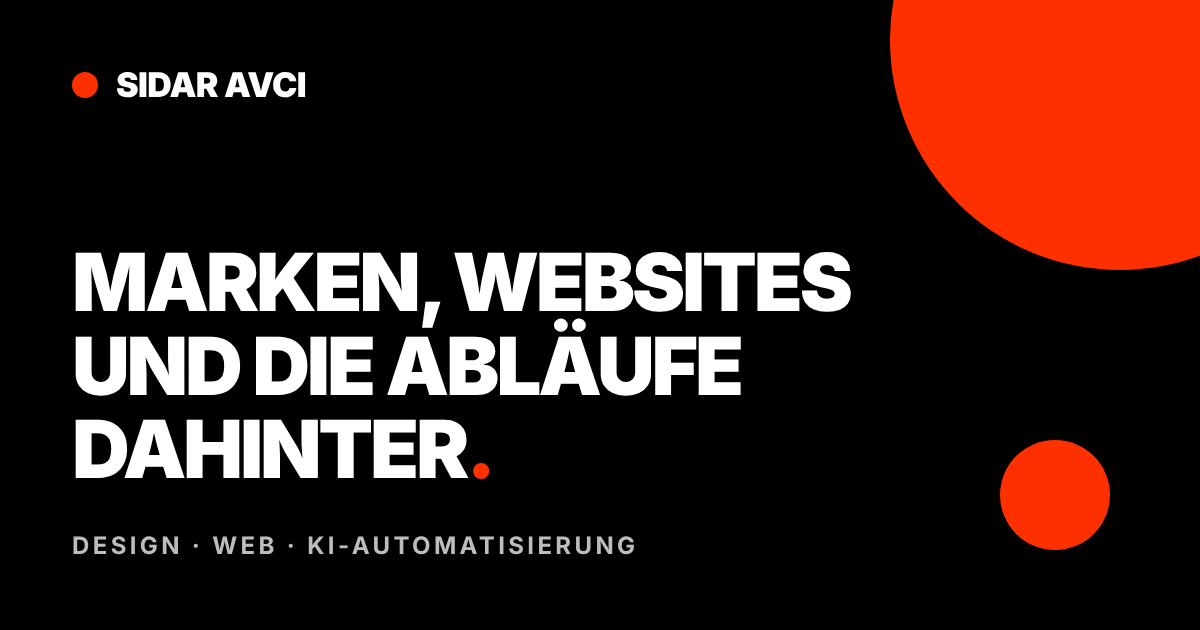
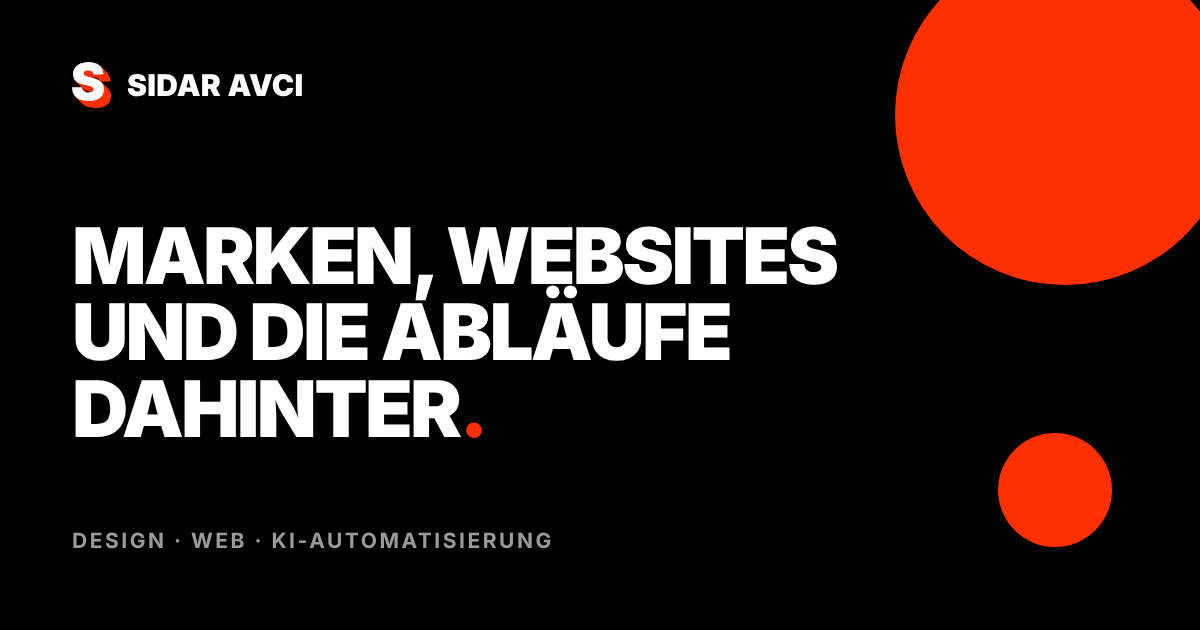
Marke: das gesetzte S ersetzt den orangen Punkt
Neues Zeichen im Header aller Seiten: schweres S mit Flanke in #ff3000,
als reiner Vektorpfad, Schrift ist in Kurven umgewandelt.

- assets/img/logo-s.svg (2,6 KB) neu, .brand i durch .brand__mark ersetzt
- Favicon, 96-px-Icon, Apple-Touch-Icon und .ico neu aus dem Zeichen gebaut
- og.png mit dem Zeichen statt dem Punkt, Layout unverändert
- Impressum und Datenschutz haben eigene Header-Regeln, dort nachgezogen
- mv-*.html bleiben unangetastet (alte Entwurfsvarianten)

Claude-Session: https://claude.ai/code/session_01V3LMbgT69FmyoNWf7fFtyk

diff --git a/referenzen/index.html b/referenzen/index.html
@@ -161,8 +161,8 @@ body::after{ /* swiss-noise */
 .site-header .frame{border-bottom:var(--b) solid var(--border);position:relative}
 .hdr{display:flex;align-items:center;justify-content:space-between;gap:1rem;height:4.25rem}
 .brand{font-weight:900;text-transform:uppercase;letter-spacing:-.02em;font-size:1.125rem;text-decoration:none;display:flex;align-items:center;gap:.6rem;min-height:44px}
-.brand i{width:.85rem;height:.85rem;background:var(--accent);border-radius:50%;display:inline-block;transition:transform .2s var(--ease)}
-.brand:hover i{transform:scale(1.25)}
+.brand__mark{height:2.125rem;width:auto;display:block;flex:none;transition:transform .2s var(--ease);transform-origin:left center}
+.brand:hover .brand__mark{transform:scale(1.06)}
 .nav ul{display:flex}
 .nav a{white-space:nowrap;display:flex;align-items:center;justify-content:center;height:100%;min-height:44px;text-decoration:none;
   font-size:.8125rem;font-weight:700;letter-spacing:.12em;text-transform:uppercase}
@@ -958,7 +958,7 @@ html{scroll-padding-top:calc(var(--hdr-h,72px) + var(--idx-h,56px) + 8px)}
 <header class="site-header" id="hdr">
   <div class="frame">
     <div class="hdr wrap">
-      <a class="brand" href="/" aria-label="Sidar Avci, zur Startseite"><i aria-hidden="true"></i>Sidar Avci</a>
+      <a class="brand" href="/" aria-label="Sidar Avci, zur Startseite"><img class="brand__mark" src="/assets/img/logo-s.svg" width="29" height="34" alt="" decoding="async">Sidar Avci</a>
       <nav class="nav" aria-label="Hauptnavigation">
         <ul>
           <li><a href="/#arbeiten"><span class="slide"><span><span>Arbeiten</span><span aria-hidden="true">Arbeiten</span></span></span></a></li><li><a href="/referenzen/" aria-current="true"><span class="slide"><span><span>Referenzen</span><span aria-hidden="true">Referenzen</span></span></span></a></li>

diff --git a/arbeiten/av-vertrags-bot/index.html b/arbeiten/av-vertrags-bot/index.html
@@ -161,8 +161,8 @@ body::after{ /* swiss-noise */
 .site-header .frame{border-bottom:var(--b) solid var(--border);position:relative}
 .hdr{display:flex;align-items:center;justify-content:space-between;gap:1rem;height:4.25rem}
 .brand{font-weight:900;text-transform:uppercase;letter-spacing:-.02em;font-size:1.125rem;text-decoration:none;display:flex;align-items:center;gap:.6rem;min-height:44px}
-.brand i{width:.85rem;height:.85rem;background:var(--accent);border-radius:50%;display:inline-block;transition:transform .2s var(--ease)}
-.brand:hover i{transform:scale(1.25)}
+.brand__mark{height:2.125rem;width:auto;display:block;flex:none;transition:transform .2s var(--ease);transform-origin:left center}
+.brand:hover .brand__mark{transform:scale(1.06)}
 .nav ul{display:flex}
 .nav a{white-space:nowrap;display:flex;align-items:center;justify-content:center;height:100%;min-height:44px;text-decoration:none;
   font-size:.8125rem;font-weight:700;letter-spacing:.12em;text-transform:uppercase}
@@ -1121,7 +1121,7 @@ ol.fx{list-style:none;margin:0;padding:0}
 <header class="site-header" id="hdr">
   <div class="frame">
     <div class="hdr wrap">
-      <a class="brand" href="/" aria-label="Sidar Avci, zur Startseite"><i aria-hidden="true"></i>Sidar Avci</a>
+      <a class="brand" href="/" aria-label="Sidar Avci, zur Startseite"><img class="brand__mark" src="/assets/img/logo-s.svg" width="29" height="34" alt="" decoding="async">Sidar Avci</a>
       <nav class="nav" aria-label="Hauptnavigation">
         <ul>
           <li><a href="/#arbeiten" aria-current="true"><span class="slide"><span><span>Arbeiten</span><span aria-hidden="true">Arbeiten</span></span></span></a></li><li><a href="/referenzen/"><span class="slide"><span><span>Referenzen</span><span aria-hidden="true">Referenzen</span></span></span></a></li>

diff --git a/arbeiten/ems-loccum/index.html b/arbeiten/ems-loccum/index.html
@@ -161,8 +161,8 @@ body::after{ /* swiss-noise */
 .site-header .frame{border-bottom:var(--b) solid var(--border);position:relative}
 .hdr{display:flex;align-items:center;justify-content:space-between;gap:1rem;height:4.25rem}
 .brand{font-weight:900;text-transform:uppercase;letter-spacing:-.02em;font-size:1.125rem;text-decoration:none;display:flex;align-items:center;gap:.6rem;min-height:44px}
-.brand i{width:.85rem;height:.85rem;background:var(--accent);border-radius:50%;display:inline-block;transition:transform .2s var(--ease)}
-.brand:hover i{transform:scale(1.25)}
+.brand__mark{height:2.125rem;width:auto;display:block;flex:none;transition:transform .2s var(--ease);transform-origin:left center}
+.brand:hover .brand__mark{transform:scale(1.06)}
 .nav ul{display:flex}
 .nav a{white-space:nowrap;display:flex;align-items:center;justify-content:center;height:100%;min-height:44px;text-decoration:none;
   font-size:.8125rem;font-weight:700;letter-spacing:.12em;text-transform:uppercase}
@@ -1152,7 +1152,7 @@ ol.fx{list-style:none;margin:0;padding:0}
 <header class="site-header" id="hdr">
   <div class="frame">
     <div class="hdr wrap">
-      <a class="brand" href="/" aria-label="Sidar Avci, zur Startseite"><i aria-hidden="true"></i>Sidar Avci</a>
+      <a class="brand" href="/" aria-label="Sidar Avci, zur Startseite"><img class="brand__mark" src="/assets/img/logo-s.svg" width="29" height="34" alt="" decoding="async">Sidar Avci</a>
       <nav class="nav" aria-label="Hauptnavigation">
         <ul>
           <li><a href="/#arbeiten" aria-current="true"><span class="slide"><span><span>Arbeiten</span><span aria-hidden="true">Arbeiten</span></span></span></a></li><li><a href="/referenzen/"><span class="slide"><span><span>Referenzen</span><span aria-hidden="true">Referenzen</span></span></span></a></li>

diff --git a/arbeiten/nomo/index.html b/arbeiten/nomo/index.html
@@ -161,8 +161,8 @@ body::after{ /* swiss-noise */
 .site-header .frame{border-bottom:var(--b) solid var(--border);position:relative}
 .hdr{display:flex;align-items:center;justify-content:space-between;gap:1rem;height:4.25rem}
 .brand{font-weight:900;text-transform:uppercase;letter-spacing:-.02em;font-size:1.125rem;text-decoration:none;display:flex;align-items:center;gap:.6rem;min-height:44px}
-.brand i{width:.85rem;height:.85rem;background:var(--accent);border-radius:50%;display:inline-block;transition:transform .2s var(--ease)}
-.brand:hover i{transform:scale(1.25)}
+.brand__mark{height:2.125rem;width:auto;display:block;flex:none;transition:transform .2s var(--ease);transform-origin:left center}
+.brand:hover .brand__mark{transform:scale(1.06)}
 .nav ul{display:flex}
 .nav a{white-space:nowrap;display:flex;align-items:center;justify-content:center;height:100%;min-height:44px;text-decoration:none;
   font-size:.8125rem;font-weight:700;letter-spacing:.12em;text-transform:uppercase}
@@ -1164,7 +1164,7 @@ ol.fx{list-style:none;margin:0;padding:0}
 <header class="site-header" id="hdr">
   <div class="frame">
     <div class="hdr wrap">
-      <a class="brand" href="/" aria-label="Sidar Avci, zur Startseite"><i aria-hidden="true"></i>Sidar Avci</a>
+      <a class="brand" href="/" aria-label="Sidar Avci, zur Startseite"><img class="brand__mark" src="/assets/img/logo-s.svg" width="29" height="34" alt="" decoding="async">Sidar Avci</a>
       <nav class="nav" aria-label="Hauptnavigation">
         <ul>
           <li><a href="/#arbeiten" aria-current="true"><span class="slide"><span><span>Arbeiten</span><span aria-hidden="true">Arbeiten</span></span></span></a></li><li><a href="/referenzen/"><span class="slide"><span><span>Referenzen</span><span aria-hidden="true">Referenzen</span></span></span></a></li>

diff --git a/arbeiten/schillerpraxis/index.html b/arbeiten/schillerpraxis/index.html
@@ -161,8 +161,8 @@ body::after{ /* swiss-noise */
 .site-header .frame{border-bottom:var(--b) solid var(--border);position:relative}
 .hdr{display:flex;align-items:center;justify-content:space-between;gap:1rem;height:4.25rem}
 .brand{font-weight:900;text-transform:uppercase;letter-spacing:-.02em;font-size:1.125rem;text-decoration:none;display:flex;align-items:center;gap:.6rem;min-height:44px}
-.brand i{width:.85rem;height:.85rem;background:var(--accent);border-radius:50%;display:inline-block;transition:transform .2s var(--ease)}
-.brand:hover i{transform:scale(1.25)}
+.brand__mark{height:2.125rem;width:auto;display:block;flex:none;transition:transform .2s var(--ease);transform-origin:left center}
+.brand:hover .brand__mark{transform:scale(1.06)}
 .nav ul{display:flex}
 .nav a{white-space:nowrap;display:flex;align-items:center;justify-content:center;height:100%;min-height:44px;text-decoration:none;
   font-size:.8125rem;font-weight:700;letter-spacing:.12em;text-transform:uppercase}
@@ -1168,7 +1168,7 @@ ol.fx{list-style:none;margin:0;padding:0}
 <header class="site-header" id="hdr">
   <div class="frame">
     <div class="hdr wrap">
-      <a class="brand" href="/" aria-label="Sidar Avci, zur Startseite"><i aria-hidden="true"></i>Sidar Avci</a>
+      <a class="brand" href="/" aria-label="Sidar Avci, zur Startseite"><img class="brand__mark" src="/assets/img/logo-s.svg" width="29" height="34" alt="" decoding="async">Sidar Avci</a>
       <nav class="nav" aria-label="Hauptnavigation">
         <ul>
           <li><a href="/#arbeiten" aria-current="true"><span class="slide"><span><span>Arbeiten</span><span aria-hidden="true">Arbeiten</span></span></span></a></li><li><a href="/referenzen/"><span class="slide"><span><span>Referenzen</span><span aria-hidden="true">Referenzen</span></span></span></a></li>

diff --git a/arbeiten/stroeer/index.html b/arbeiten/stroeer/index.html
@@ -161,8 +161,8 @@ body::after{ /* swiss-noise */
 .site-header .frame{border-bottom:var(--b) solid var(--border);position:relative}
 .hdr{display:flex;align-items:center;justify-content:space-between;gap:1rem;height:4.25rem}
 .brand{font-weight:900;text-transform:uppercase;letter-spacing:-.02em;font-size:1.125rem;text-decoration:none;display:flex;align-items:center;gap:.6rem;min-height:44px}
-.brand i{width:.85rem;height:.85rem;background:var(--accent);border-radius:50%;display:inline-block;transition:transform .2s var(--ease)}
-.brand:hover i{transform:scale(1.25)}
+.brand__mark{height:2.125rem;width:auto;display:block;flex:none;transition:transform .2s var(--ease);transform-origin:left center}
+.brand:hover .brand__mark{transform:scale(1.06)}
 .nav ul{display:flex}
 .nav a{white-space:nowrap;display:flex;align-items:center;justify-content:center;height:100%;min-height:44px;text-decoration:none;
   font-size:.8125rem;font-weight:700;letter-spacing:.12em;text-transform:uppercase}
@@ -1134,7 +1134,7 @@ ol.fx{list-style:none;margin:0;padding:0}
 <header class="site-header" id="hdr">
   <div class="frame">
     <div class="hdr wrap">
-      <a class="brand" href="/" aria-label="Sidar Avci, zur Startseite"><i aria-hidden="true"></i>Sidar Avci</a>
+      <a class="brand" href="/" aria-label="Sidar Avci, zur Startseite"><img class="brand__mark" src="/assets/img/logo-s.svg" width="29" height="34" alt="" decoding="async">Sidar Avci</a>
       <nav class="nav" aria-label="Hauptnavigation">
         <ul>
           <li><a href="/#arbeiten" aria-current="true"><span class="slide"><span><span>Arbeiten</span><span aria-hidden="true">Arbeiten</span></span></span></a></li><li><a href="/referenzen/"><span class="slide"><span><span>Referenzen</span><span aria-hidden="true">Referenzen</span></span></span></a></li>

diff --git a/index.html b/index.html
@@ -169,8 +169,8 @@ body::after{ /* swiss-noise */
 .site-header .frame{border-bottom:var(--b) solid var(--border);position:relative}
 .hdr{display:flex;align-items:center;justify-content:space-between;gap:1rem;height:4.25rem}
 .brand{font-weight:900;text-transform:uppercase;letter-spacing:-.02em;font-size:1.125rem;text-decoration:none;display:flex;align-items:center;gap:.6rem;min-height:44px}
-.brand i{width:.85rem;height:.85rem;background:var(--accent);border-radius:50%;display:inline-block;transition:transform .2s var(--ease)}
-.brand:hover i{transform:scale(1.25)}
+.brand__mark{height:2.125rem;width:auto;display:block;flex:none;transition:transform .2s var(--ease);transform-origin:left center}
+.brand:hover .brand__mark{transform:scale(1.06)}
 .nav ul{display:flex}
 .nav a{white-space:nowrap;display:flex;align-items:center;justify-content:center;height:100%;min-height:44px;text-decoration:none;
   font-size:.8125rem;font-weight:700;letter-spacing:.12em;text-transform:uppercase}
@@ -1090,7 +1090,7 @@ body::after{ /* swiss-noise */
 <header class="site-header" id="hdr">
   <div class="frame">
     <div class="hdr wrap">
-      <a class="brand" href="#top" aria-label="Sidar Avci, zur Startseite"><i aria-hidden="true"></i>Sidar Avci</a>
+      <a class="brand" href="#top" aria-label="Sidar Avci, zur Startseite"><img class="brand__mark" src="/assets/img/logo-s.svg" width="29" height="34" alt="" decoding="async">Sidar Avci</a>
       <nav class="nav" aria-label="Hauptnavigation">
         <ul>
           <li><a href="#arbeiten"><span class="slide"><span><span>Arbeiten</span><span aria-hidden="true">Arbeiten</span></span></span></a></li>

diff --git a/datenschutz/index.html b/datenschutz/index.html
@@ -27,7 +27,7 @@ body{margin:0;font-family:"Inter",system-ui,sans-serif;color:var(--fg);backgroun
 header{background:var(--fg);padding:1.35rem var(--pad)}
 header a{font-weight:900;text-transform:uppercase;letter-spacing:-.02em;text-decoration:none;color:#fff;display:inline-flex;gap:.6rem;align-items:center;font-size:1.125rem}
 header a:hover{color:var(--accent)}
-header i{width:.85rem;height:.85rem;border-radius:50%;background:var(--accent);display:inline-block}
+header .brand__mark{height:2.125rem;width:auto;display:block;flex:none}
 main{padding:clamp(3rem,8vw,6rem) var(--pad);max-width:52rem}
 h1{font-weight:900;text-transform:uppercase;letter-spacing:-.04em;line-height:.95;font-size:clamp(2.25rem,10vw,6rem);margin:0 0 2.5rem;overflow-wrap:anywhere;hyphens:manual}
 h1 span{color:var(--accent)}
@@ -49,7 +49,7 @@ footer a{text-decoration:none;font-weight:700;text-transform:uppercase;letter-sp
 </style>
 </head>
 <body>
-<header><a href="/" aria-label="Sidar Avci, zur Startseite"><i aria-hidden="true"></i>Sidar Avci</a></header>
+<header><a href="/" aria-label="Sidar Avci, zur Startseite"><img class="brand__mark" src="/assets/img/logo-s.svg" width="29" height="34" alt="" decoding="async">Sidar Avci</a></header>
 <main>
 <h1>Daten&shy;schutz<span>.</span></h1>
 <p class="lead">Diese Website kommt ohne Cookies, ohne Tracking und ohne Analyse-Tools aus. Hier steht, welche Daten trotzdem anfallen und welche Rechte Sie haben.</p>

diff --git a/impressum/index.html b/impressum/index.html
@@ -27,7 +27,7 @@ body{margin:0;font-family:"Inter",system-ui,sans-serif;color:var(--fg);backgroun
 header{background:var(--fg);padding:1.35rem var(--pad)}
 header a{font-weight:900;text-transform:uppercase;letter-spacing:-.02em;text-decoration:none;color:#fff;display:inline-flex;gap:.6rem;align-items:center;font-size:1.125rem}
 header a:hover{color:var(--accent)}
-header i{width:.85rem;height:.85rem;border-radius:50%;background:var(--accent);display:inline-block}
+header .brand__mark{height:2.125rem;width:auto;display:block;flex:none}
 main{padding:clamp(3rem,8vw,6rem) var(--pad);max-width:52rem}
 h1{font-weight:900;text-transform:uppercase;letter-spacing:-.04em;line-height:.95;font-size:clamp(2.25rem,10vw,6rem);margin:0 0 2.5rem;overflow-wrap:anywhere;hyphens:manual}
 h1 span{color:var(--accent)}
@@ -49,7 +49,7 @@ footer a{text-decoration:none;font-weight:700;text-transform:uppercase;letter-sp
 </style>
 </head>
 <body>
-<header><a href="/" aria-label="Sidar Avci, zur Startseite"><i aria-hidden="true"></i>Sidar Avci</a></header>
+<header><a href="/" aria-label="Sidar Avci, zur Startseite"><img class="brand__mark" src="/assets/img/logo-s.svg" width="29" height="34" alt="" decoding="async">Sidar Avci</a></header>
 <main>
 <h1>Impressum<span>.</span></h1>
 <h2>Angaben gemäß § 5 DDG</h2>
